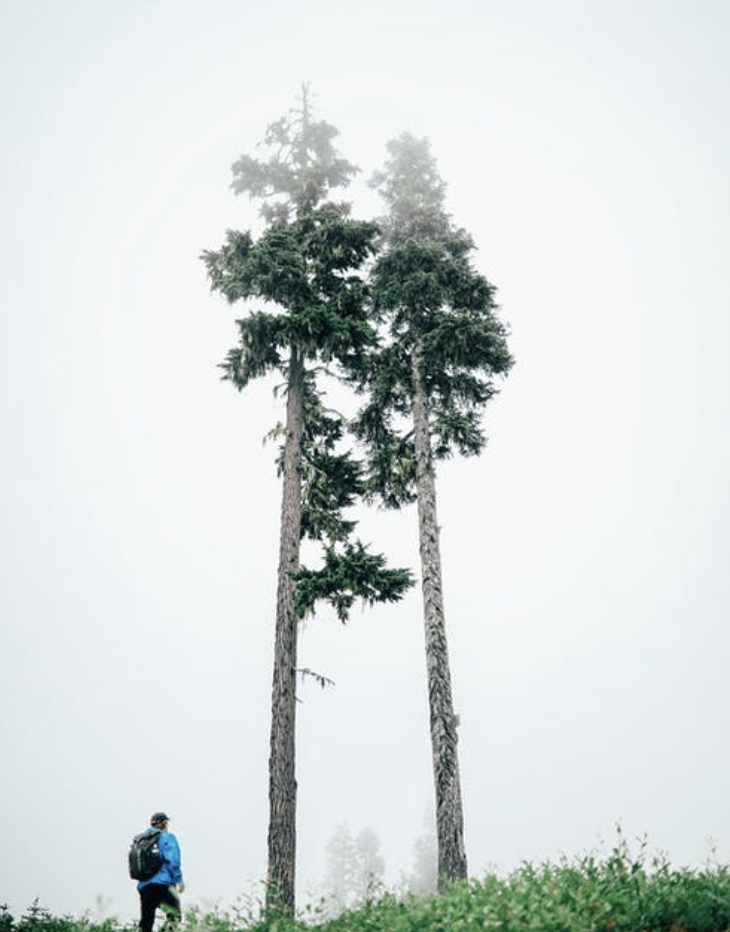
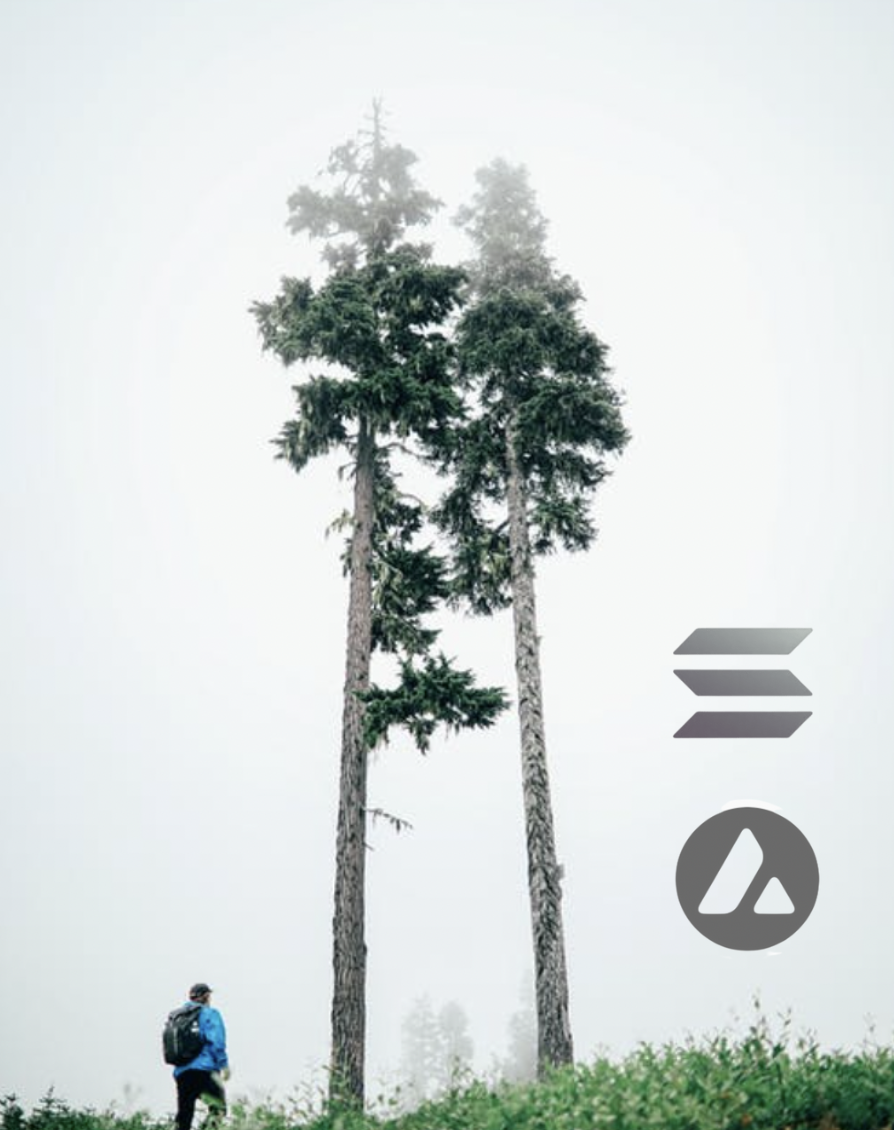
hgureq

Changed region(s): [[0.0, 0.0933, 1.0, 1.0], [0.7534, 0.7157, 0.9342, 0.8401], [0.7534, 0.529, 0.9041, 0.6534]]

diff --git a/src/components/Token.jsx b/src/components/Token.jsx
@@ -2,52 +2,40 @@ import React from "react";
 import Imgfond from "../assets/fondtoken.png";
 import Arbrehum from "../assets/arbrehumain.png";
 import Metamask from "../assets/metamask.png";
-import Solavax from "../assets/solavax.png";
+import Ktaarbre from "../assets/ktaarbre.png";
 import Uniswap from "../assets/uniswap.png";
 import Ktaprice from "../assets/ktaprice.png";
 import Mainplant from "../assets/mainplant.png";
 import Compkta from "../assets/compteurkta.png";
-import Mecakta from "../assets/mecakta.png";
+import Mecburn from "../assets/mecburn.png";
 
 const Token = () => {
   return (
     <div className="">
       <div>
         <div>
-          {" "}
-          <img className="" src={Imgfond} alt="fondtoken" />{" "}
+          <img className="" src={Imgfond} alt="fondtoken" />
         </div>
         <div className="flex space-x-11 ">
           <div>
             <img className="m-10 flex-start" src={Arbrehum} alt="Arbrehum" />
           </div>
           <div>
-            <p className="m-10 mb-10 text-xl">
-              Un système de plantation d’arbres via l’achat de Kate
-            </p>
+            <p className="m-10 mb-10 text-3xl">Le Processus achat de KTA</p>
             <img
               className="w-8/12 gap-32 ml-10 h-2/5 flex-end"
               src={Metamask}
               alt="Metamask"
             />
             <img className="w-8/12 m-10 mb-10 " src={Uniswap} alt="Uniswap" />
-            <img className="w-4/12 m-10 mb-10 " src={Solavax} alt="Solavax" />
+            <img className="w-4/12 m-10 mb-10 " src={Ktaarbre} alt="Ktaarbre" />
           </div>
         </div>
-        <h1 className="m-10 mb-10 text-center text-7xl">
-          Un mecanisme de Burn du Token
-        </h1>
         <p className="m-10 mb-10 text-2xl text-center" />
         <div className="align-items justify-content">
-          <img
-            className="object-center m-10 rounded-3xl align-items justify-content"
-            src={Mecakta}
-            alt="Mecakta"
-          />
+          <img className="max-w-full " src={Mecburn} alt="Mecakta" />
         </div>
-        <div>
-          <img className="h-4/5 " src={Ktaprice} alt="Ktaprice" />
-        </div>
+        <img className="w-11/12 m-10 h-4/5 " src={Ktaprice} alt="Ktaprice" />
         <div className="flex m-10">
           <div className="flex-start">
             <img className="w-8/12 " src={Mainplant} alt="Mainplant" />

diff --git a/src/App.jsx b/src/App.jsx
@@ -1,11 +1,7 @@
 import { Route, Routes } from "react-router-dom";
 import "./App.css";
 import Accueil from "./components/Accueil";
-import Page2 from "./components/Page2";
-
-import GreenMining from "./components/GreenMining";
-
-
+import Token from "./components/Token";
 
 // Méthode 1 des images : on importe chaque image
 
@@ -14,13 +10,7 @@ function App() {
     <div>
       <Routes>
         <Route path="/" element={<Accueil />} />
-        <Route path="/page" element={<Page2 />} />
-
-        <Route path="/greenmining" element={<GreenMining />} />
-
-    
-        
-
+        <Route path="/token" element={<Token />} />
       </Routes>
     </div>
   );

diff --git a/src/components/Footer.jsx b/src/components/Footer.jsx
@@ -1,0 +1,19 @@
+import React from "react";
+import Barre from "../assets/barrereseaux.png";
+
+const Footer = () => {
+  return (
+    <div className="box-content p-2 text-center border-1 h-screen bg-center bg-screen bg-[url('../assets/pexels.jpg')]">
+      <div className="text-xl text-center text-white mt-60">
+        <p>
+          “La technologie peut être utilisée pour le meilleur ou le pire. Elle a
+          transformé notre manière de vivre.”
+        </p>
+        <p className="mt-4">Kaiko Pluvinage</p>
+        <img src={Barre} alt="feaf" />
+      </div>
+    </div>
+  );
+};
+
+export default Footer;
